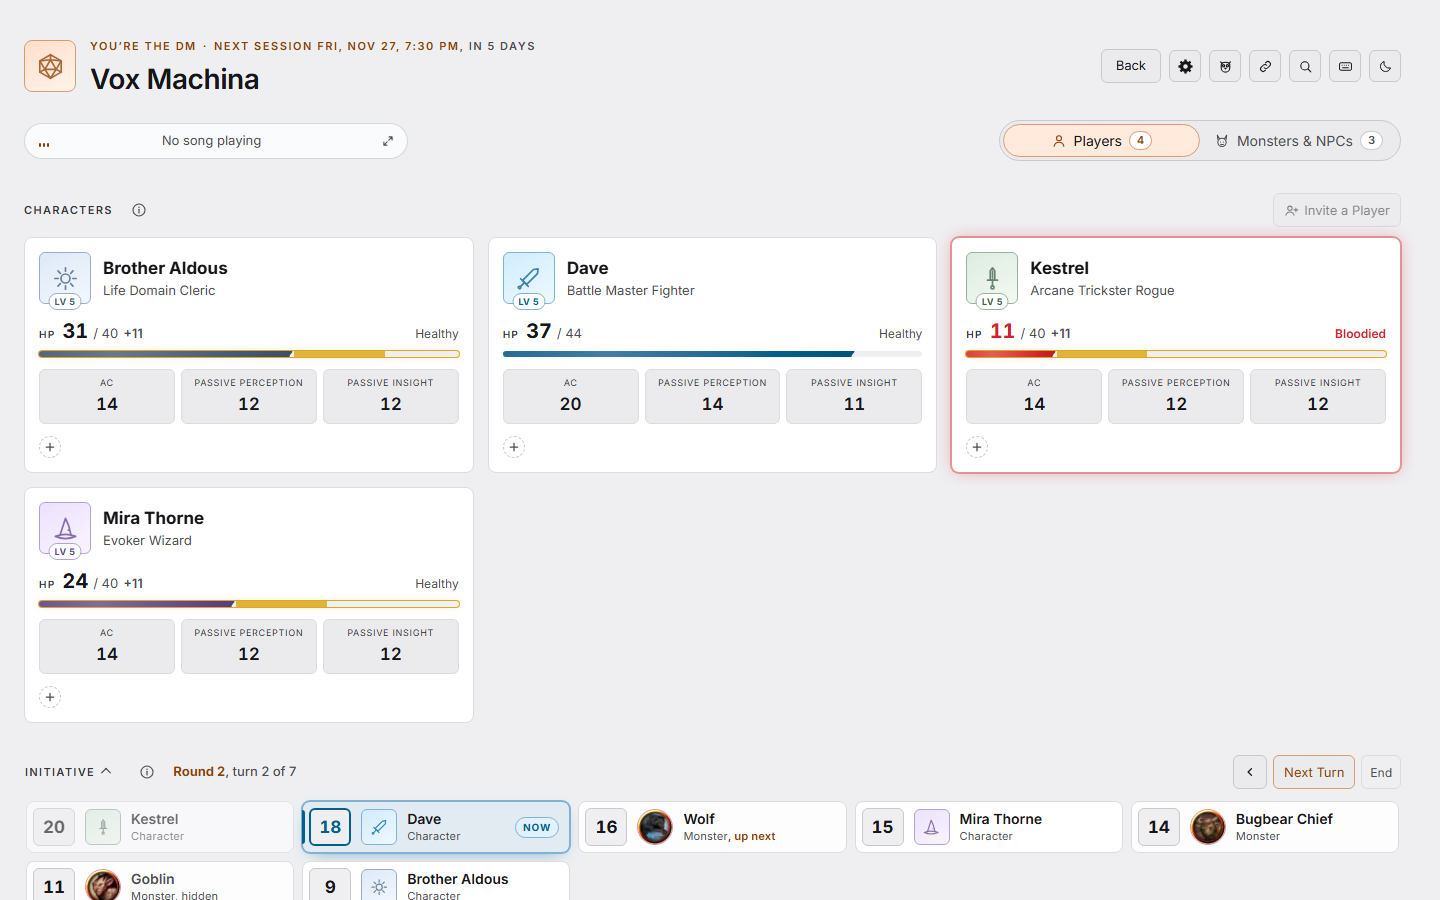
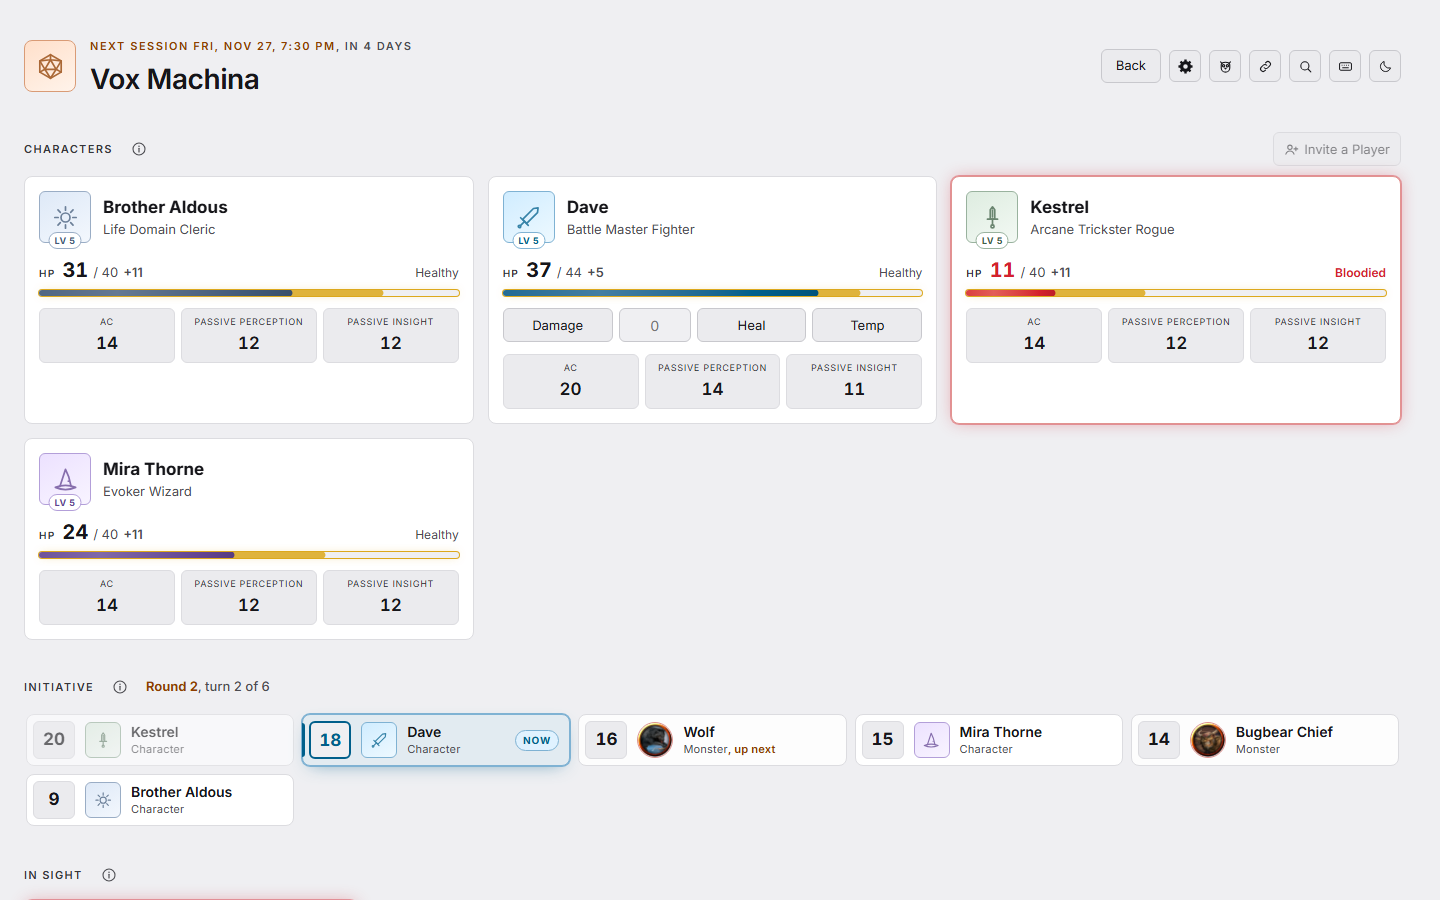
docs: new Showcase pictures, the mobile pair in one labeled picture
Dave now has temporary hit points, and the campaign page is his
player's view with the quick hit point buttons. The two mobile shots
are one picture with a label under each, so no table outline shows;
labels say Desktop and Mobile.

diff --git a/README.md b/README.md
@@ -38,29 +38,18 @@ away, and puts the whole party on one live page for the DM.
 ## Showcase
 
 <p align="center">
-  <img src=".github/readme/desktop-sheet.png" alt="Dave's character sheet on a computer in dark mode: hit points, abilities, saving throws, skills, attacks, and trackers with pips and a gauge" width="100%">
+  <img src=".github/readme/desktop-sheet.png" alt="Dave's character sheet on a desktop in dark mode: hit points with temporary ones, abilities, saving throws, skills, attacks, and trackers" width="100%">
   <br>
-  <sub><b>Character sheet</b> · computer, dark mode</sub>
+  <sub><b>Character sheet</b> · Desktop, dark mode</sub>
 </p>
 <p align="center">
-  <img src=".github/readme/desktop-campaign.png" alt="The Vox Machina campaign page in light mode as the DM sees it: the party's cards and the initiative order mid-fight" width="100%">
+  <img src=".github/readme/desktop-campaign.png" alt="The Vox Machina campaign page in light mode as Dave's player sees it: the party's cards, Damage, Heal, and Temp on Dave's own card, and the initiative order mid-fight" width="100%">
   <br>
-  <sub><b>Campaign page, as the DM sees it</b> · computer, light mode</sub>
+  <sub><b>Campaign page, as a player sees it</b> · Desktop, light mode</sub>
 </p>
-<table align="center">
-  <tr>
-    <td align="center" width="50%">
-      <img src=".github/readme/phone-sheet.png" alt="Dave's sheet on a phone in light mode, with its places on a bar at the bottom" width="88%">
-      <br>
-      <sub><b>Character sheet</b> · phone, light mode</sub>
-    </td>
-    <td align="center" width="50%">
-      <img src=".github/readme/phone-campaign.png" alt="The initiative order on a phone in dark mode, with Back and Next Turn under the thumb" width="88%">
-      <br>
-      <sub><b>Initiative mid-fight</b> · phone, dark mode</sub>
-    </td>
-  </tr>
-</table>
+<p align="center">
+  <img src=".github/readme/mobile.png" alt="Two mobile screens side by side: Dave's character sheet in light mode, its places on a bar at the bottom; and the DM's initiative order mid-fight in dark mode, with Back and Next Turn under the thumb" width="82%">
+</p>
 
 ## Usage
 
